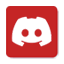
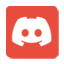
changed all coloros the same red

diff --git a/index.html b/index.html
@@ -118,7 +118,7 @@
               </div>
             </section>
             <!-- scroll-target - -->
-                <div id="scroll-target" class="container-fluid arpi position-absolute text-center text-black" style="padding-left:0; padding-right:0; background-color: #fe0000;"> 
+                <div id="scroll-target" class="container-fluid arpi position-absolute text-center text-black" style="padding-left:0; padding-right:0; background-color: #e74c3c;"> 
                 <h1 class="text-white w-auto p-3 bg-dark" style="text-decoration:underline;">
                     About
                 </h1>
